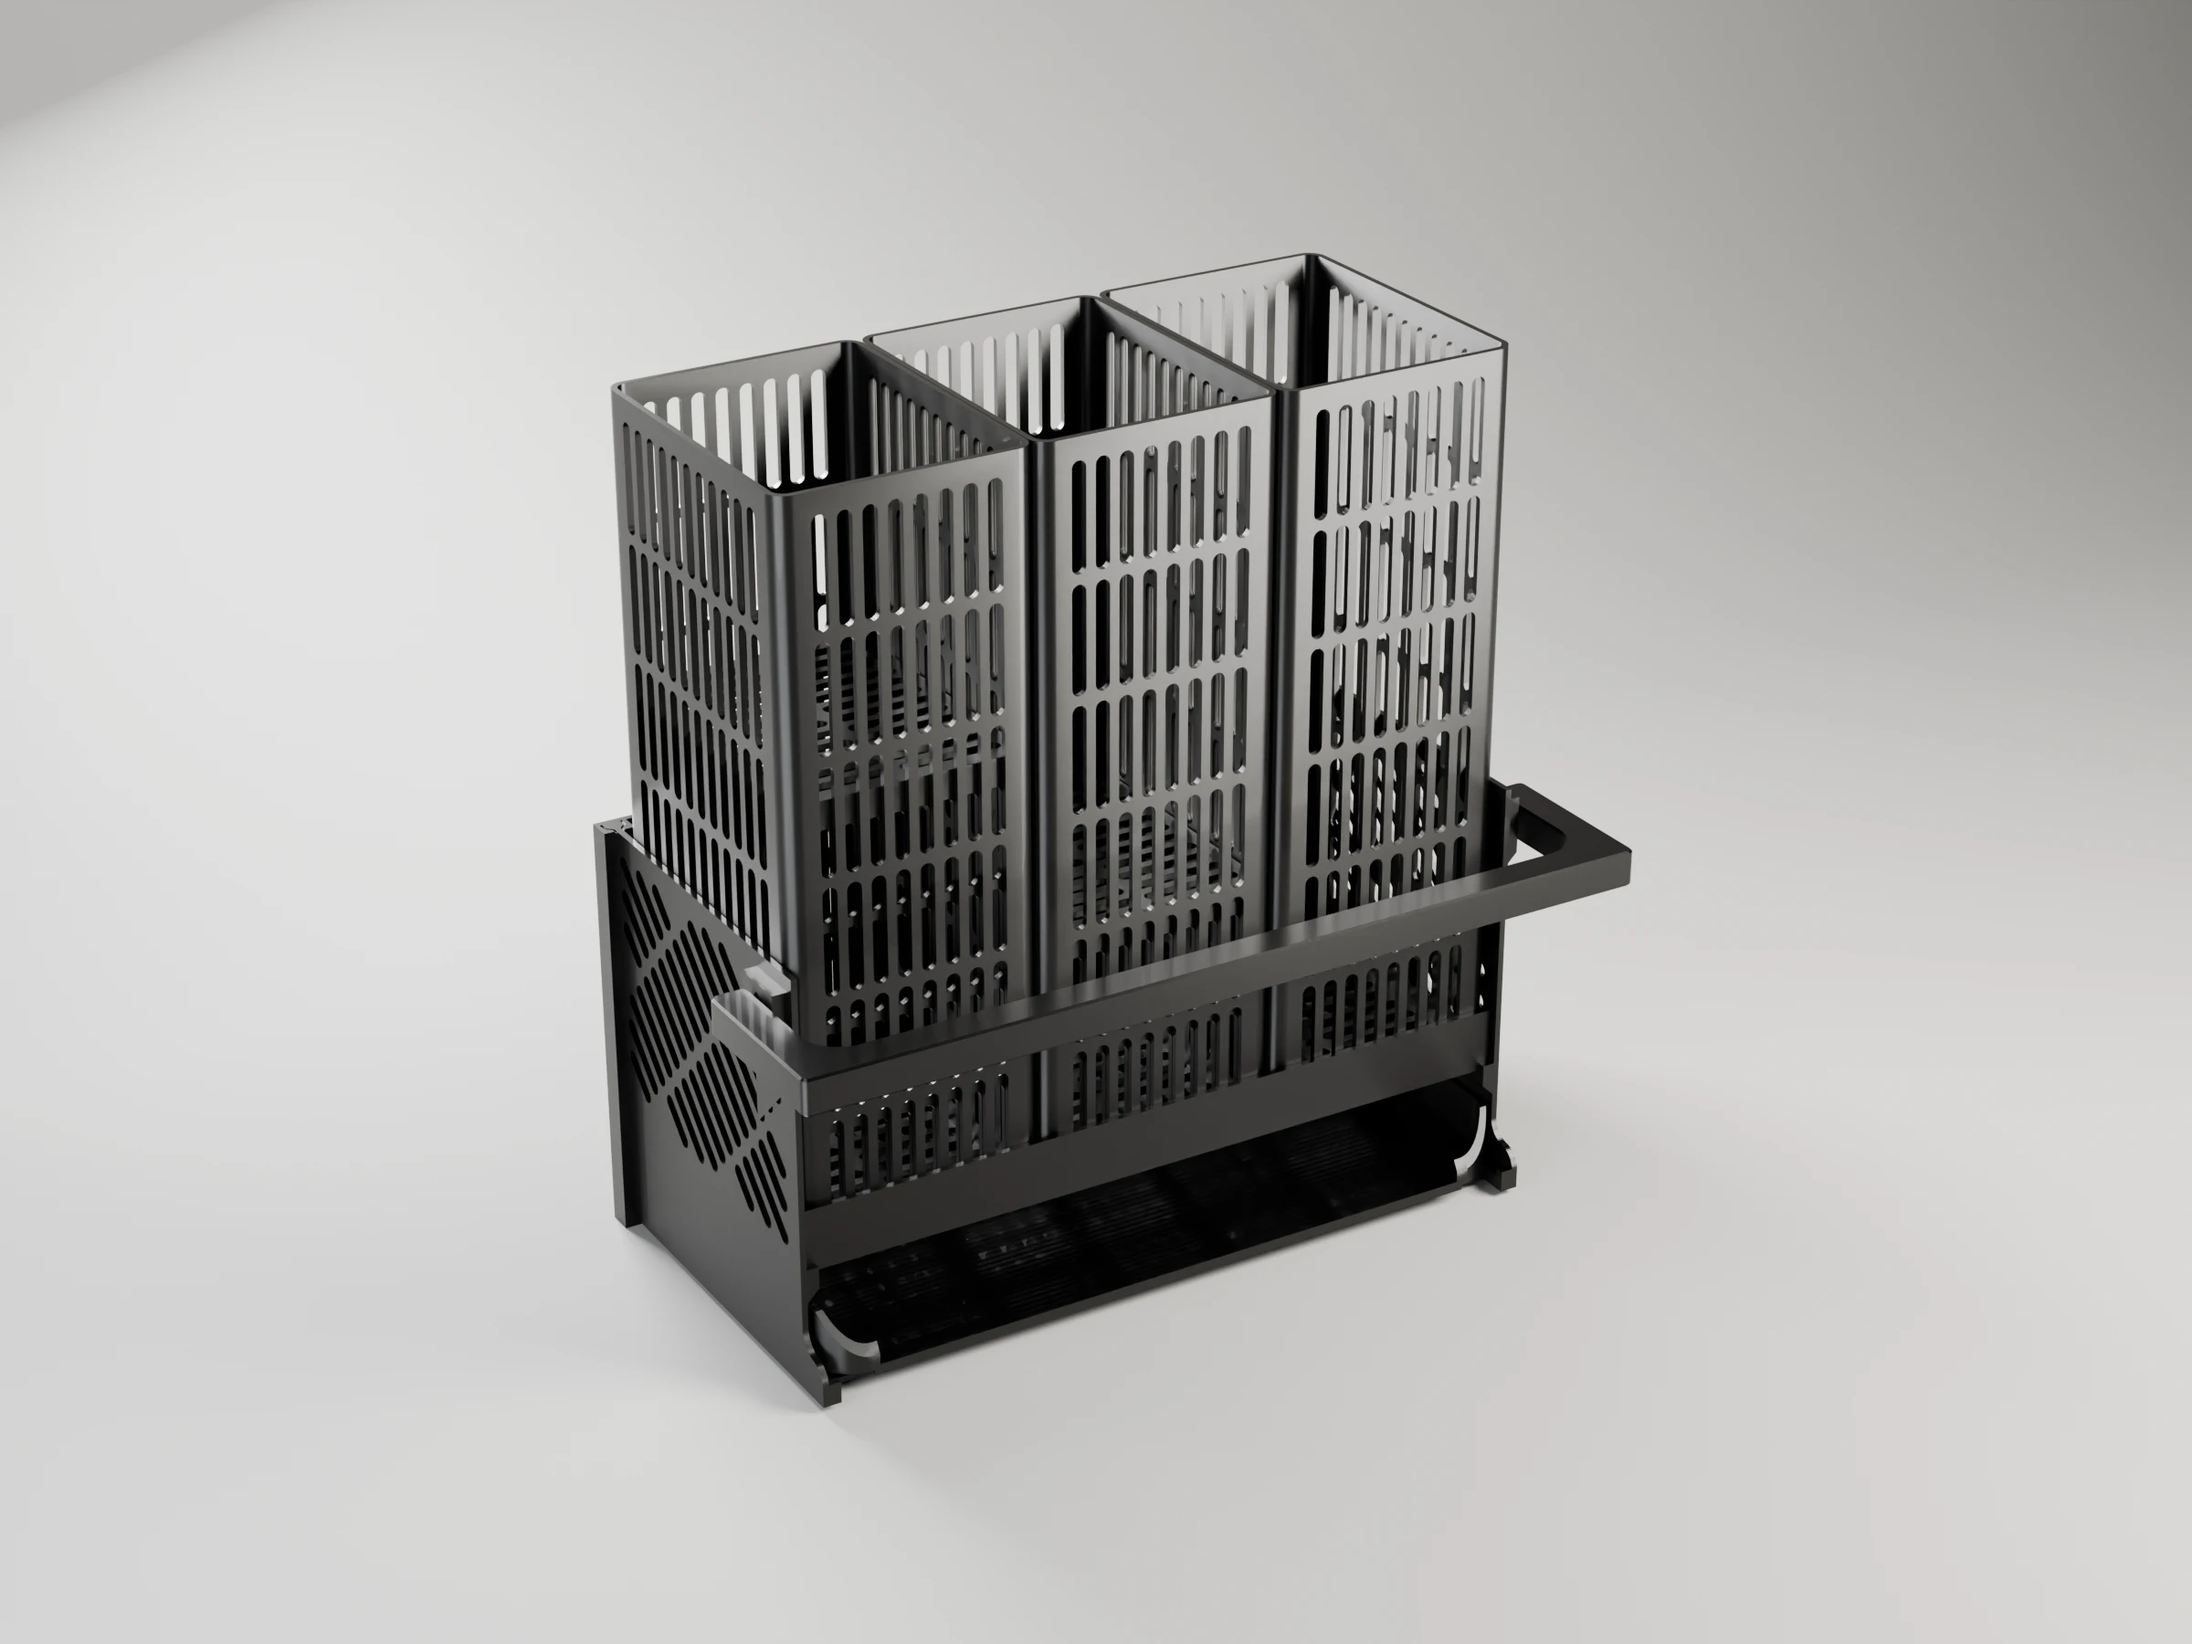
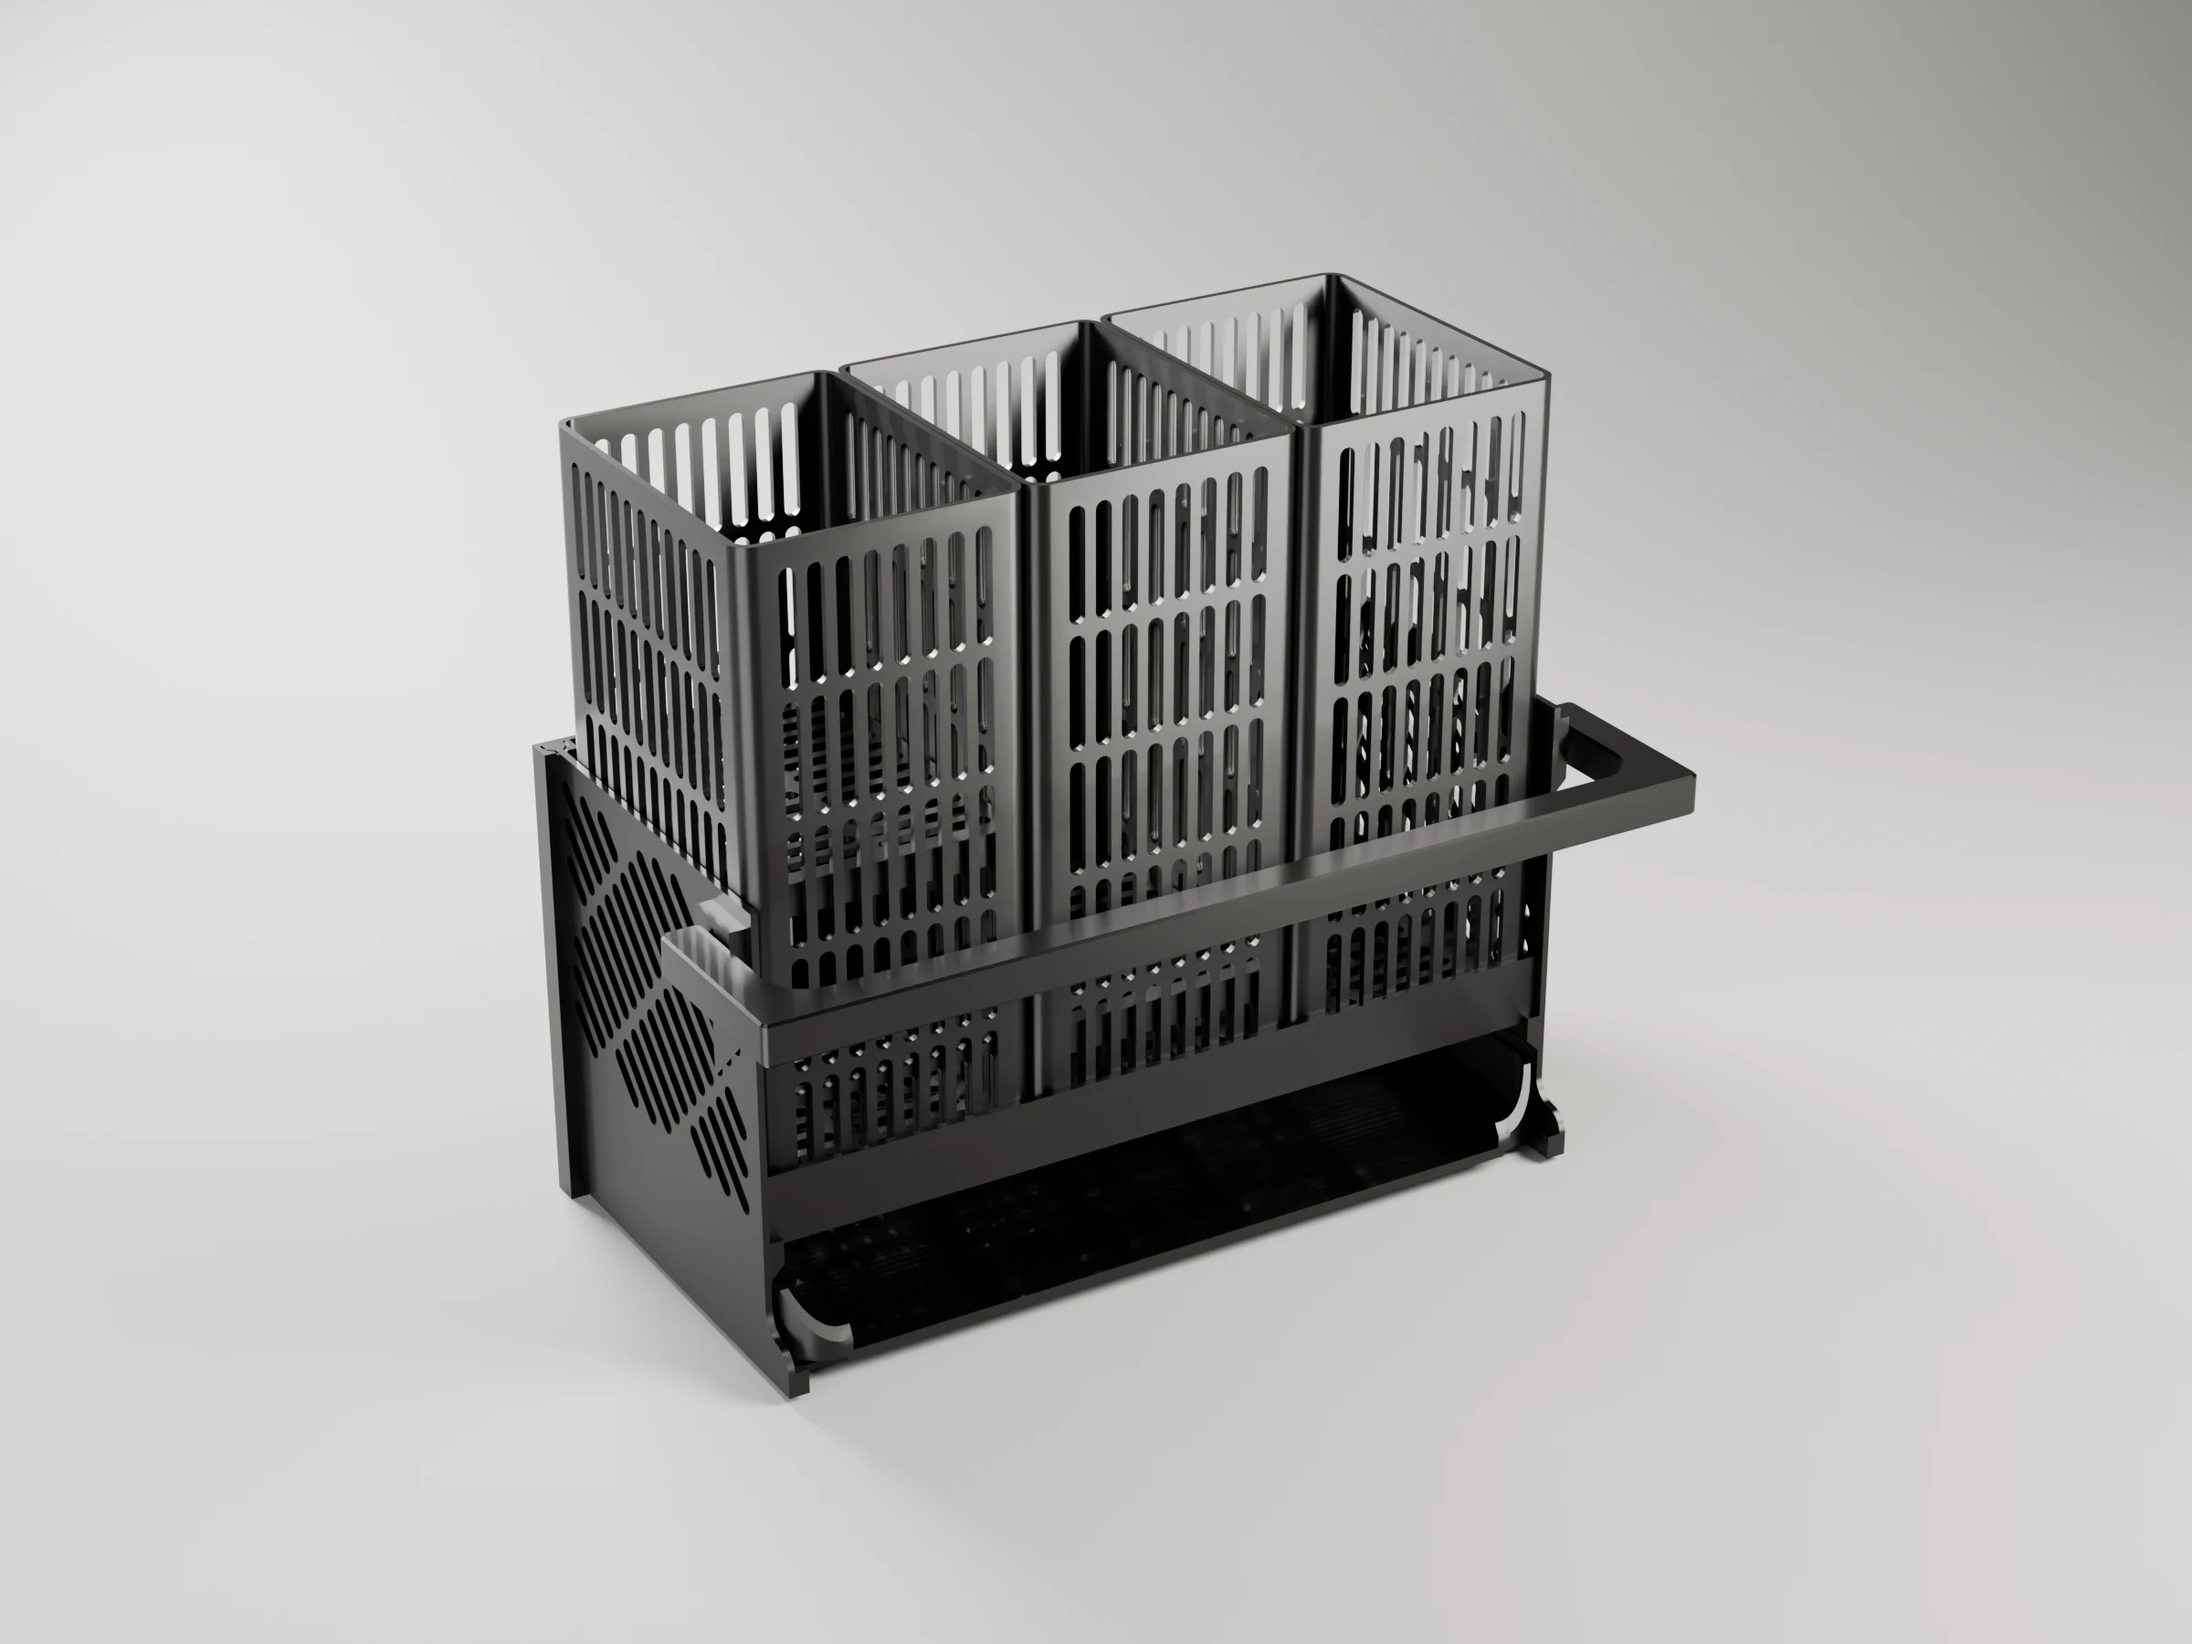
Sink organizers: README and renders for the 160 mm cutlery bins

Changed region(s): [[0.2188, 0.1556, 0.7812, 0.8711], [0.0, 0.0, 0.1562, 0.0933]]

diff --git a/projects/sink-organizers/README.md b/projects/sink-organizers/README.md
@@ -165,31 +165,32 @@ stiffness nor its stress.
 It is laid out like the soap caddy: the bins stand on a rack over the tray,
 and the tray slides out under the rack with the bins in place.
 
-**Bins.** Three bins, 68 × 90 mm and 200 mm tall (`bin_h`), deep enough for
-a chef's knife's 20 cm blade. Every wall and floor is slotted, so the
-cutlery airs and drips. They rise 118 mm above the body, whose side walls
+**Bins.** Three bins, 68 × 90 mm and 160 mm tall (`bin_h`): the chef's
+knife's 20 cm blade mostly in. Every wall and floor is slotted, so the
+cutlery airs and drips. They rise 78 mm above the body, whose side walls
 still stop 80 mm up the bins (`body_bin_h`).
 
 - **Why so tall:** the first bins were 80 mm. Teaspoons (15 cm) stood in
   them just right, but table knives (24 cm) and the chef's knife (32 cm)
-  stuck far out and the bins looked tiny.
+  stuck far out and the bins looked tiny. 200 mm, with the whole blade in,
+  was more than needed.
 - **Risers** (false bottoms) keep the short cutlery as high as before. Each
   is a short bin inside the bin's walls (`riser_play` 0.3 per side), printed
   on its floor and dropped in **upside down**, so its slotted floor is the
   false bottom. A riser in the middle of a bin would be a 66 × 88 mm bridge
   printed standing, and this one moves between bins.
-  - Left, teaspoons: a 120 mm riser leaves 78 mm, as deep as the old bins.
-  - Middle, table cutlery: a 68 mm riser leaves 130 mm. A knife shows about
+  - Left, teaspoons: an 80 mm riser leaves 78 mm, as deep as the old bins.
+  - Middle, table cutlery: a 28 mm riser leaves 130 mm. A knife shows about
     110 mm, a fork about 55.
-  - Right, chef's knife: no riser; 198 mm, the handle out.
+  - Right, chef's knife: no riser; 158 mm, about 4 cm of blade out.
   - `risers` sets them, left to right. To take a riser out, tip the bin
     over.
 - **What holds them:** the room for each bin on the rack is laid out with
   0.25 mm per side (`bin_play`), between the side walls and the rack's
   15 mm fences (`fence_h`). The bin itself is only 0.1 smaller per side
-  (`bin_fit`), so it does not rock: a 200 mm bin tilts until its foot jams
+  (`bin_fit`), so it does not rock: a 160 mm bin tilts until its foot jams
   between the fences, about 2·fit / 15. At the old 0.25 its rim would move
-  ≈6.7 mm, at 0.1 ≈2.7, and at 0.05 ≈1.3. The first version gave the bins
+  ≈5.3 mm, at 0.1 ≈2.1, and at 0.05 ≈1.1. The first version gave the bins
   0.5 mm and stood them on the tray's slats, and they rattled.
   - The value comes from a fit test on your printed rack and body
     (plate 8, below).
@@ -422,8 +423,8 @@ without cracking.
 | cutlery drainer `body` | 218 × 114 × 114 | Side walls with the tails, floor, ledges for the tray and the rack, the handle's bosses; printed standing |
 | cutlery drainer `tray` | 206 × 103 × 21 | Sloping floor with rims and a drip lip; printed on its back |
 | cutlery drainer `rack` | 206 × 94 × 17 | Shelf, 2.4 mm, slotted front to back, with a fence at the front and back; printed on its floor |
-| cutlery drainer `bin` | 68.7 × 90.3 × 200 | Three; printed standing on their floors |
-| cutlery drainer `riser` | 64.6 × 86.3 × 120 and 68 | False bottoms (`riser_n` 0 and 1); printed on their floors, dropped into the bins upside down |
+| cutlery drainer `bin` | 68.7 × 90.3 × 160 | Three; printed standing on their floors |
+| cutlery drainer `riser` | 64.6 × 86.3 × 80 and 28 | False bottoms (`riser_n` 0 and 1); printed on their floors, dropped into the bins upside down |
 | cutlery drainer `test_bin` | 68.7 × 90.3 × 12 | The bins' fit test: the bin's foot, at `bin_fit` 0.05, 0.1 and 0.15 |
 | cutlery drainer `handle` | 239 × 49 × 10 | The U with its two diamond pins; printed flat |
 | soap caddy `jig` | 108 × 221 × 4.2 | Installation jig: four upside-down keyholes on bars, in a frame round the piece's outline; printed flat |
@@ -440,7 +441,7 @@ Decided per CLAUDE.md §2.3:
 |---|---|---|
 | Loads with margins near 5× and a tangled load path (plate, tray, cups) | FEA, single parts and the assembly on the wall | Done: [Strength and orientation](#strength-and-orientation), [fea/README.md](fea/README.md) |
 | Tall thin walls printed standing; the first soap caddy body came out rough above ≈165 mm | Print stiffness FEA | Done: the body's top layer moved 33 mm/N sideways (clean up to ≈17). With the fins, ≤1.3 at every height ([fea/README.md](fea/README.md#5-the-body-while-it-prints)). Checked in print with the sway test: the bare strip rough from where the model said, the one with fins clean. The cutlery drainer's body (114 mm): ≤9 mm/N on its walls, 12 at the very top, inside what printed clean (≈17) but over the ≤10 aim: no fins, watch its top band on the first print |
-| The 200 mm bins and the 120 mm riser, printed standing on 1.26–2.10 mm slotted walls | Print stiffness FEA (`PIECE=bin`) | Done: worst at the middle of the bin's long wall, pushed across it. At 1.26 mm walls, 4.2 mm/N; at 1.68 (the default), 1.9; at 2.10, 1.0. All are well under the ≤10 aim: a closed box is stiff where the open soap caddy body was not. No fins ([fea/README.md](fea/README.md#cutlery-drainer-bins-while-they-print)) |
+| The tall bins and risers, printed standing on 1.26–2.10 mm slotted walls | Print stiffness FEA (`PIECE=bin`) | Done at 200 mm and a 120 mm riser, before the bins came down to 160 (shorter is stiffer): worst at the middle of the bin's long wall, pushed across it. At 1.26 mm walls, 4.2 mm/N; at 1.68 (the default), 1.9; at 2.10, 1.0. All are well under the ≤10 aim: a closed box is stiff where the open soap caddy body was not. No fins ([fea/README.md](fea/README.md#cutlery-drainer-bins-while-they-print)) |
 | Free-standing piece | Stability | Not needed: both pieces hang on suction cups. The bins stand loose on the rack, but its fences and the side walls cage their feet, so a leaning knife only tilts a bin by its play (`bin_fit`, [Bins](#cutlery-drainer)) |
 | Leaning cutlery on the rack's fences | By hand | Not needed: a 200 g knife leaning on a rim puts ≈0.1 N·m on its bin. The 15 mm fence takes it as ≈7 N over 68 mm, ≈2 MPa across the fence's layers: 6× PETG's Z strength derated to 40 %. The bins weigh ≈100 g more than before against the 1 kg of cutlery the wall FEA carries; their weight sits no further from the wall |
 | Installation jigs | — | Not needed: a thumb presses each rim onto its button in compression; the jig holds four cups (≈80 g) |
@@ -516,8 +517,8 @@ With the default parameters:
 | 3 · Cutlery drainer: body and wall plate | body (standing), plate (flat) | 4 h 25 min, 94 g | 4 h 04 min, 96 g | 4 h 25 min, 103 g |
 | 4 · Cutlery drainer: tray | the tray (standing, alone: see below) | 1 h 58 min, 36 g | 1 h 41 min, 36 g | 1 h 58 min, 39 g |
 | 5 · Cutlery drainer: rack, handle and buttons | rack, handle, 4 buttons, close together | 2 h 14 min, 58 g | 2 h 08 min, 60 g | 2 h 14 min, 64 g |
-| 6 · Cutlery drainer: bins | 3 bins, 200 mm | 16 h 10 min, 210 g | 15 h 49 min, 215 g | 16 h 10 min, 230 g |
-| 7 · Cutlery drainer: risers | the 120 and 68 mm risers | 5 h 10 min, 69 g | 4 h 57 min, 71 g | 5 h 10 min, 76 g |
+| 6 · Cutlery drainer: bins | 3 bins, 160 mm | 12 h 32 min, 174 g | 12 h 15 min, 178 g | 12 h 32 min, 191 g |
+| 7 · Cutlery drainer: risers | the 80 and 28 mm risers | 3 h 12 min, 47 g | 3 h 01 min, 48 g | 3 h 12 min, 52 g |
 | 8 · Cutlery drainer: bin fit test | 3 rings, `bin_fit` 0.05, 0.1, 0.15 | 1 h 20 min, 18 g | 1 h 18 min, 19 g | 1 h 20 min, 20 g |
 | 9 · Fit tests | keyhole pad, 3 buttons, dovetail ladder and tail, box width (with fin tabs), handle pins | 1 h 32 min, 36 g | 1 h 26 min, 36 g | 1 h 32 min, 39 g |
 | 10 · Sway test | two strips of side wall, bare and with fins | 2 h 26 min, 17 g | 2 h 05 min, 17 g | 2 h 26 min, 19 g |
@@ -576,7 +577,7 @@ pieces do not fit.
 | `test_sway_h`, `test_sway_len`, `test_sway_fin` | 100, 40, 12 | The sway test's strips and fins |
 | `side_add`, `side_add_z`, `frame_t`, `back_wall` | 0, 0, 1.68, 0 | Thicker side walls (from a height), front frame, a slotted back wall. Variants of the print stiffness study, off by default |
 | **Cutlery drainer** | | |
-| `frame_w`, `bins`, `bin_d`, `bin_h`, `body_bin_h` | 210, 3, 90, 200, 80 | Width along the wall; number of bins, their room's depth and their height; how far the body's side walls reach up the bins |
+| `frame_w`, `bins`, `bin_d`, `bin_h`, `body_bin_h` | 210, 3, 90, 160, 80 | Width along the wall; number of bins, their room's depth and their height; how far the body's side walls reach up the bins |
 | `counter_gap` | 15 | Counter to the body |
 | `cup_span`, `cup_pitch` | 175, 80 | Between the cups of a row (under the dovetails), and between the rows |
 | `towel_gap`, `step_r` | 14, 6 | Room for the towel in front of the body; the step between the side walls' deep and shallow parts |
@@ -584,7 +585,7 @@ pieces do not fit.
 | `rack_t`, `fence_t`, `fence_h`, `rack_stop` | 2.4, 1.68, 15, 2 | Rack: floor, fences, their height, the bumps in front of it |
 | `rack_slots_across` | true | The rack floor's slots run front to back, so its strips span fence to fence |
 | `bin_wall`, `bin_floor`, `bin_r`, `bin_play`, `bin_fit` | 1.68, 1.6, 5, 0.25, 0.1 | Bins: walls, floor, corners; their room on the rack, per side (the rack and body are laid out with it); the bin's clearance in it, per side (fit test) |
-| `risers`, `riser_play`, `riser_n` | [120, 68, 0], 0.3, 0 | Risers (false bottoms): height in each bin, left to right, 0 for none; clearance in the bin; which one `part="riser"` exports |
+| `risers`, `riser_play`, `riser_n` | [80, 28, 0], 0.3, 0 | Risers (false bottoms): height in each bin, left to right, 0 for none; clearance in the bin; which one `part="riser"` exports |
 | `handle_s`, `handle_drop`, `pin_s`, `pin_len`, `pin_play`, `boss_t`, `boss_w`, `handle_play` | 10, 12, 6, 5, 0.15, 4.2, 16, 0.4 | Towel handle, its pins and bosses |
 
 ## Renders
